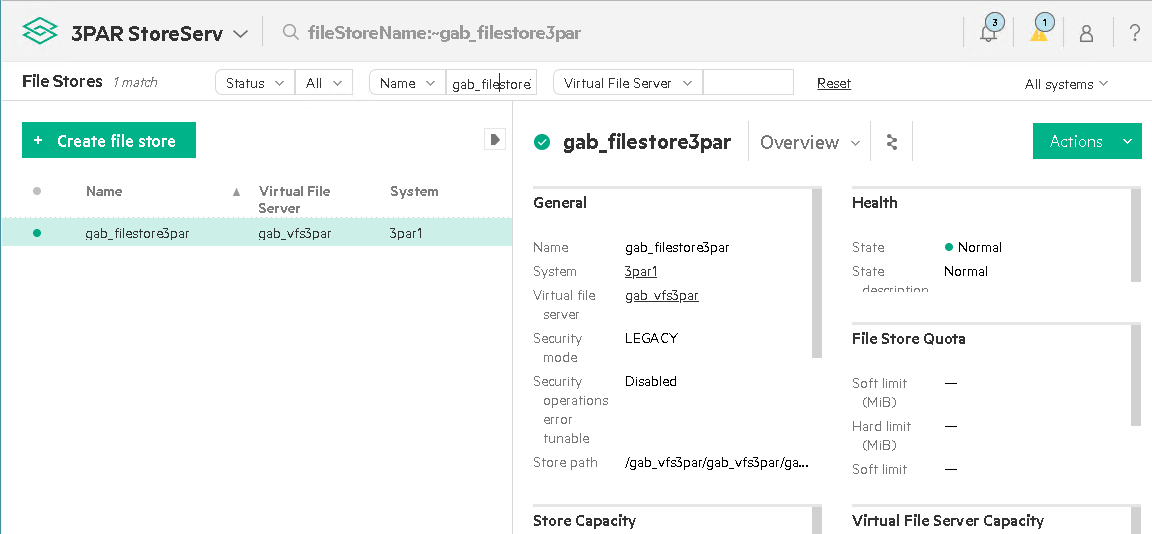
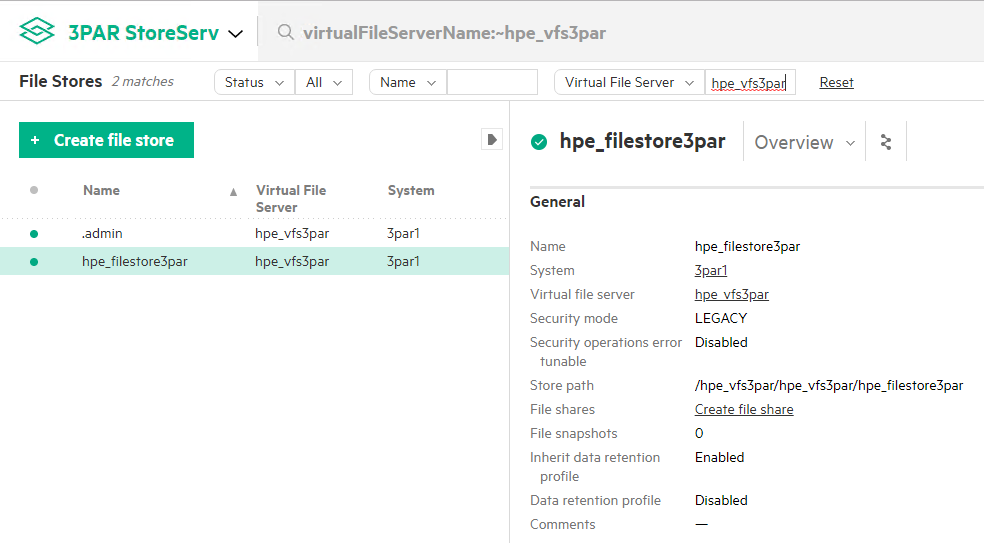
NFS 3PAR

diff --git a/storage/nfs-provisioner-3PAR.md b/storage/nfs-provisioner-3PAR.md
@@ -13,7 +13,9 @@
 ##Setting up HPE 3PAR
 The following section outlines the steps you need to follow in order to configure a Virtual File Server and a share for use by the Kubernetes NFS provisioner.
 
-Log in to the HPE 3PAR StoreServ Management console and create a virtual file server (VFS):
+Log in to the HPE 3PAR StoreServ Management console.
+
+**create a virtual file server (VFS):**
 
 1. In the `General` section, specify a name, in this instance `hpe_vfs3par`
 
@@ -21,10 +23,55 @@ Log in to the HPE 3PAR StoreServ Management console and create a virtual file se
 
     **Figure.**  Create Virtual File Server - General
 
-2. 
+2. In the Storage Allocation Settings section, set the Provisioning to Thin Provisioned, select an appropriate CPG, in this instance FC_r1, and set the size, for example, 1 terabyte.
+
+    !["Figure.  Create Virtual File Server - Storage Allocation Settings"][media-3par-create-vfs-storage-png]
+
+    **Figure.**  Create Virtual File Server - Storage Allocation Settings
+
+3. Add a virtual IP address
+
+    !["Figure.  Create Virtual File Server - Add Virtual IP Address"][media-3par-create-vfs-vip-png]
+
+    **Figure.**  Create Virtual File Server - Add Virtual IP Address
+
+
+These steps result in a Virtual File Server:
+
+    !["Figure.  Virtual File Server"][media-3par-create-vfs-complete-png]
+
+    **Figure.**  Virtual File Server
+
+**Create a File Store:**
+
+1. In the General section, specify a name, in this instance `HPE_filestore3par`, and select the Virtual File Server that you just created.
+
+    !["Figure.  Create File Store - General"][media-3par-create-filestore-png]
+
+    **Figure.**  Create File Store - General
+
+2. Use the default Security settings:
+    !["Figure.  Create File Store - Security"][media-3par-create-filestore-security-png]
+
+    **Figure.**  Create File Store - Security
+
+These steps result in the File Store shown below:
+
+    !["Figure.  File Store"][media-3par-create-filestore-complete-png]
+
+    **Figure.**  File Store
 
 
 
 
+[media-3par-create-vfs-png]:<../media/3par-create-vfs.png> "Figure. Create Virtual File Server - General"
+[media-3par-create-vfs-storage-png]:<../media/3par-create-vfs-storage.png> "Figure. Create Virtual File Server - Storage Allocation Settings" 
+[media-3par-create-vfs-vip-png]:<../media/3par-create-vfs-vip.png> "Figure. Create Virtual File Server - Add Virtual IP Address"
+[media-3par-create-vfs-complete-png]:<../media/3par-create-vfs-complete.png> "Figure. Virtual File Server"
 
-[media-3par-create-vfs-png]:<../media/3par-create-vfs.png> "Figure.  Create Virtual File Server - General"
+
+[media-3par-create-filestore-png]:<../media/3par-create-filestore.png> "Figure. Create File Store - General"
+[media-3par-create-filestore-security-png]:<../media/3par-create-filestore-security.png> "Figure. Create File Store - Security"
+[media-3par-create-filestore-complete-png]:<../media/3par-create-filestore-complete.png> "Figure. File Store"
+
+
